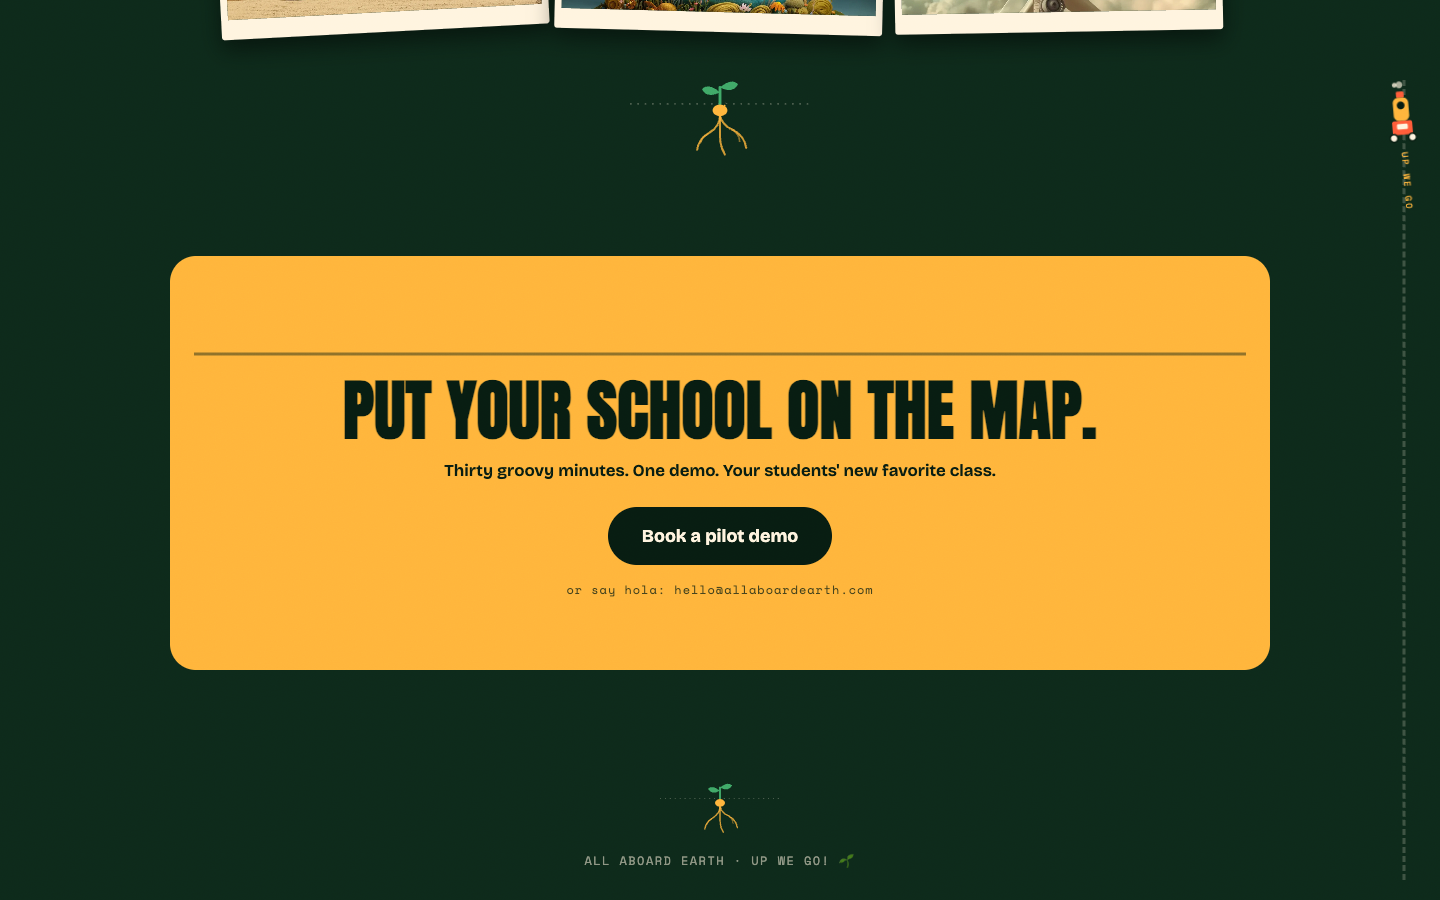
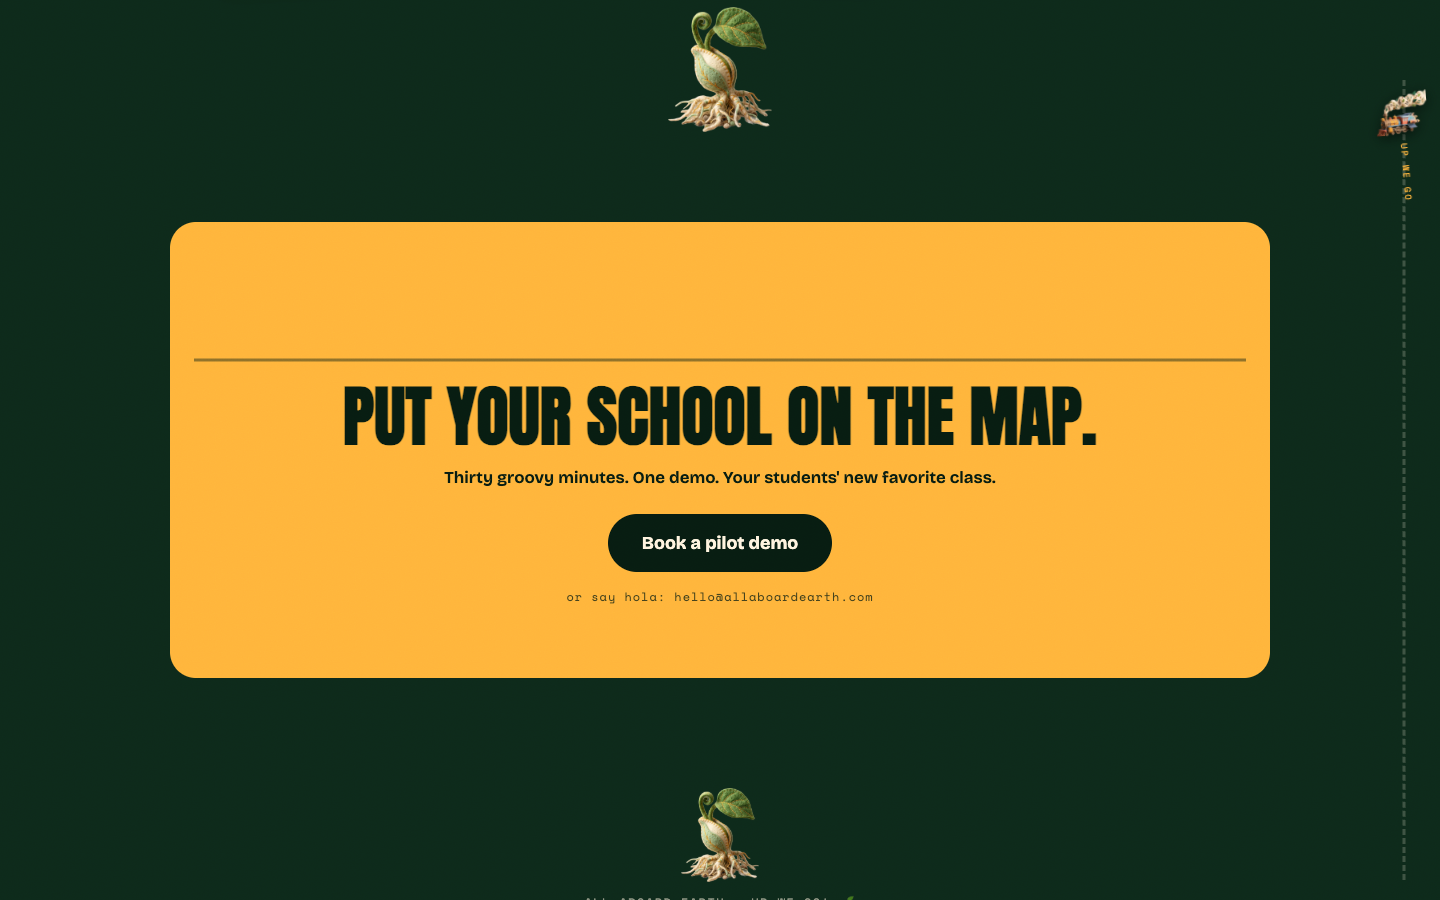
Replace every placeholder with the real AAE-web-art
All five named assets from the remaster brief were sitting in
~/Desktop/AAE-web-art, and they map one-to-one onto the seats:

- vinyl-sun     -> hero record, masked to a circle so the 45s spin reads
                   cleanly; the marigold SVG rays stay behind it so the
                   hero keeps its colour burst
- divider a / b -> the two 5856x704 wave-to-mountain paintings, now
                   full-bleed. B is drawn mirrored, so the scaleX flip is
                   gone, and the stroke draw-on becomes a pine curtain
                   that slides off on transform (clip-path would have
                   left the compositor)
- seed-mark     -> section ends and the footer sign-off
- climbing-train-> the scroll rail and the CTA crossing, flipped there to
                   face its direction of travel

Three were JPEGs with a checkerboard painted into the pixels rather than
real alpha. Adobe image_remove_background cut them correctly; a local
colour key would have eaten the trains cream steam and the seeds pale
roots, which sit right on the checkers own greys.

Adds a hero scrim: the record art is light tan, so cream copy over it
lost contrast that the old coral disc had given for free. The scrim sits
between art and type and restores it without touching the art.

The hero record is served from /art on a stable path and preloaded - a
bundler-hashed import is only discoverable after React mounts.
[…]

diff --git a/src/AllAboardEarthPrototype.jsx b/src/AllAboardEarthPrototype.jsx
@@ -5,6 +5,10 @@ import sceneGreenCareers from "./assets/scenes/green-careers.webp";
 import sceneEarthRests from "./assets/scenes/earth-rests.webp";
 import sceneRaccoon from "./assets/scenes/felt-raccoon.webp";
 import sceneWindMonkey from "./assets/scenes/felt-wind-monkey.webp";
+import dividerA from "./assets/marks/divider-wave-mountain-a.webp";
+import dividerB from "./assets/marks/divider-wave-mountain-b.webp";
+import climbingTrainArt from "./assets/marks/climbing-train.webp";
+import seedMarkArt from "./assets/marks/seed-mark.webp";
 
 // Card art is language-independent, so it lives outside the copy object and is
 // matched to cards by position. Art streams from the Wix CMS, so replacing the
@@ -253,38 +257,28 @@ function useReveal(lang) {
 function VinylSun() {
   return (
     <div className="vinyl-wrap" aria-hidden="true">
-    <svg className="vinyl-sun" viewBox="0 0 400 400">
-      <defs>
-        <radialGradient id="sunGrad" cx="50%" cy="40%">
-          <stop offset="0%" stopColor={T.marigold} />
-          <stop offset="75%" stopColor={T.coral} />
-        </radialGradient>
-      </defs>
-      {/* rotating rays */}
-      <g className="sun-rays">
-        {Array.from({ length: 16 }).map((_, i) => (
-          <rect
-            key={i}
-            x="196" y="8" width="8" height="34" rx="4"
-            fill={T.marigold}
-            transform={`rotate(${i * 22.5} 200 200)`}
-          />
-        ))}
-      </g>
-      {/* the record — turns as one piece, label and all */}
-      <g className="vinyl-disc">
-        <circle cx="200" cy="200" r="148" fill="url(#sunGrad)" />
-        {/* vinyl grooves */}
-        {[132, 116, 100, 84, 68].map((r) => (
-          <circle key={r} cx="200" cy="200" r={r} fill="none" stroke={T.pineDeep} strokeOpacity=".28" strokeWidth="2.5" />
-        ))}
-        {/* record label */}
-        <circle cx="200" cy="200" r="46" fill={T.cream} />
-        <circle cx="200" cy="200" r="6" fill={T.pineDeep} />
-        <text x="200" y="182" textAnchor="middle" fontFamily="'Space Mono', monospace" fontSize="12" fontWeight="700" fill={T.pineDeep} letterSpacing="1">SIDE A</text>
-        <text x="200" y="234" textAnchor="middle" fontFamily="'Space Mono', monospace" fontSize="10" fill={T.pineDeep} letterSpacing="1">33⅓ RPM</text>
-      </g>
-    </svg>
+      <svg className="vinyl-sun" viewBox="0 0 400 400">
+        <g className="sun-rays">
+          {Array.from({ length: 16 }).map((_, i) => (
+            <rect
+              key={i}
+              x="196" y="8" width="8" height="34" rx="4"
+              fill={T.marigold}
+              transform={`rotate(${i * 22.5} 200 200)`}
+            />
+          ))}
+        </g>
+      </svg>
+      {/* the record itself — real art, turning as one piece */}
+      <img
+        className="vinyl-disc"
+        src="/art/vinyl-sun.webp"
+        alt=""
+        width="640"
+        height="640"
+        fetchPriority="high"
+        decoding="async"
+      />
     </div>
   );
 }
@@ -294,16 +288,20 @@ function VinylSun() {
    the signal starts as water and rises into peaks
    ============================================================ */
 function WaveMountainDivider({ flip }) {
-  const wavePath =
-    "M0,84 q18,-16 36,0 t36,0 t36,0 t36,0 t36,0 t36,0 " + // water grooves
-    "L252,84 L310,46 L358,84 L430,22 L500,90 L570,14 L650,92 L724,34 L800,84 " + // rising peaks
-    "q18,-16 36,0 t36,0 t36,0 t36,0 t36,0 t36,0 t36,0 t36,0 t36,0 t36,0"; // signal rides on
   return (
     <div className={"divider" + (flip ? " flip" : "")} data-reveal aria-hidden="true">
-      <svg viewBox="0 0 1200 110" preserveAspectRatio="none" className="wobble">
-        <path className="draw-on" d={wavePath} fill="none" stroke={T.sky} strokeWidth="3" strokeLinecap="round" />
-        <path className="draw-on draw-on-b" d={wavePath} fill="none" stroke={T.marigold} strokeWidth="3" strokeLinecap="round" transform="translate(0,12)" opacity=".55" />
-      </svg>
+      <img
+        className="divider-img"
+        src={flip ? dividerB : dividerA}
+        alt=""
+        loading="lazy"
+        decoding="async"
+        width="1600"
+        height="192"
+      />
+      {/* wipe: a pine curtain slides off to the right — transform-only, so the
+          reveal stays on the compositor (clip-path would not) */}
+      <span className="divider-wipe" />
     </div>
   );
 }
@@ -326,22 +324,16 @@ function SeedGlyph({ className = "", hue }) {
    ============================================================ */
 function RootsMark() {
   return (
-    <svg className="roots wobble seed-grow" viewBox="0 0 220 110" aria-hidden="true" data-reveal>
-      {/* ground line */}
-      <line x1="0" y1="34" x2="220" y2="34" stroke={T.cream} strokeOpacity=".25" strokeWidth="2" strokeDasharray="2 7" />
-      {/* sprout */}
-      <path d="M110,34 L110,14" stroke={T.leaf} strokeWidth="3.5" strokeLinecap="round" fill="none" />
-      <path d="M110,20 q-14,-12 -22,-4 q6,12 22,4" fill={T.leaf} />
-      <path d="M110,14 q14,-12 22,-4 q-6,12 -22,4" fill={T.leaf} />
-      {/* seed */}
-      <ellipse cx="110" cy="42" rx="9" ry="7" fill={T.marigold} />
-      {/* roots branching down */}
-      <path d="M110,48 q0,14 -14,22 q-12,7 -14,20" stroke={T.marigold} strokeOpacity=".8" strokeWidth="2.5" fill="none" strokeLinecap="round" />
-      <path d="M110,48 q0,16 0,26 q0,12 6,22" stroke={T.marigold} strokeOpacity=".8" strokeWidth="2.5" fill="none" strokeLinecap="round" />
-      <path d="M110,48 q2,12 16,18 q14,7 16,22" stroke={T.marigold} strokeOpacity=".8" strokeWidth="2.5" fill="none" strokeLinecap="round" />
-      <path d="M96,70 q-8,4 -10,12" stroke={T.marigold} strokeOpacity=".5" strokeWidth="2" fill="none" strokeLinecap="round" />
-      <path d="M126,66 q8,6 8,14" stroke={T.marigold} strokeOpacity=".5" strokeWidth="2" fill="none" strokeLinecap="round" />
-    </svg>
+    <img
+      className="roots seed-grow"
+      src={seedMarkArt}
+      alt=""
+      width="520"
+      height="624"
+      loading="lazy"
+      decoding="async"
+      data-reveal
+    />
   );
 }
 
@@ -395,23 +387,7 @@ function ClimbingTrain() {
         className={"rail-train" + (settling ? " settling" : "")}
         style={{ "--y": `${travel * (1 - p)}px`, "--climb": `${(-6 - p * 6).toFixed(1)}deg` }}
       >
-        <svg viewBox="0 0 44 84" width="34" height="66">
-          {/* steam puffs */}
-          <circle className="puff p1" cx="22" cy="10" r="4" fill={T.cream} opacity=".8" />
-          <circle className="puff p2" cx="16" cy="6" r="3" fill={T.cream} opacity=".55" />
-          <circle className="puff p3" cx="28" cy="4" r="2.5" fill={T.cream} opacity=".4" />
-          {/* chimney (pointing up — we climb!) */}
-          <rect x="17" y="14" width="10" height="8" rx="2" fill={T.coral} />
-          {/* boiler */}
-          <rect x="12" y="22" width="20" height="30" rx="7" fill={T.marigold} />
-          <circle cx="22" cy="32" r="5" fill={T.pineDeep} />
-          {/* cab */}
-          <rect x="9" y="52" width="26" height="18" rx="3" fill={T.coral} />
-          <rect x="15" y="56" width="14" height="7" rx="2" fill={T.cream} />
-          {/* wheels */}
-          <circle cx="10" cy="74" r="5" fill={T.cream} stroke={T.pineDeep} strokeWidth="2" />
-          <circle cx="34" cy="74" r="5" fill={T.cream} stroke={T.pineDeep} strokeWidth="2" />
-        </svg>
+        <img className="rail-train-img" src={climbingTrainArt} alt="" width="760" height="672" loading="lazy" decoding="async" />
         <span className="rail-label mono">UP WE GO</span>
       </div>
     </div>
@@ -541,6 +517,7 @@ export default function App() {
 
         /* Seat 4/11 — the seed mark grows rather than fades */
         .seed-grow{ transform-origin:50% 30%; }
+        [data-reveal].divider{ opacity:1; transform:none; }
         [data-reveal].seed-grow{ transform:translateY(24px) scale(.72); }
         [data-reveal].seed-grow.in{ transform:translateY(0) scale(1); }
         .mono { font-family:'Space Mono', monospace; font-size:12px; letter-spacing:.08em; line-height:1.5; }
@@ -561,10 +538,11 @@ export default function App() {
           .ccard-inner, .rail-train, .cta-train{ transition:none !important; animation:none !important; transform:none !important; }
           .cta-train{ left:auto !important; right:0 !important; }
           .draw-on{ stroke-dasharray:none !important; stroke-dashoffset:0 !important; transition:none !important; }
+          .divider-wipe{ transform:translateX(101%) !important; transition:none !important; }
           .seed-grow{ opacity:1 !important; transform:none !important; }
           .photoprint, .poster, .panel{ animation:none !important; }
           .cta-train{ animation:none !important; transform:translateX(0) !important; left:auto !important; right:8px !important; }
-          .cta-train-rock{ animation:none !important; }
+          .cta-train-img{ animation:none !important; }
           /* the record and the pulsing badges stop too */
           .vinyl-disc{ animation:none !important; }
           .boarding-badge, .signal{ animation:none !important; opacity:1 !important; }
@@ -589,14 +567,23 @@ export default function App() {
 
         /* hero + vinyl sun */
         .hero{ position:relative; padding:clamp(40px,8vh,90px) clamp(16px,4vw,48px) 0; text-align:center; }
+        /* The record art is light tan, so cream copy laid over it loses contrast.
+           A soft pine scrim sits between the art (z 0) and the type (z 2). */
+        .hero::after{
+          content:""; position:absolute; left:50%; top:38%; width:min(92vw,900px); height:62%;
+          transform:translateX(-50%); z-index:1; pointer-events:none;
+          background:radial-gradient(ellipse at 50% 45%, ${T.pine}e6 0%, ${T.pine}c4 42%, ${T.pine}00 72%);
+        }
         /* wrapper owns position + entrance; svg owns parallax. Both transform-only. */
-        .vinyl-wrap{ position:absolute; left:50%; top:56%; width:min(74vw,580px);
+        .vinyl-wrap{ position:absolute; aspect-ratio:1; left:50%; top:56%; width:min(74vw,580px);
           z-index:0; transform:translateX(-50%); animation:rise 1.6s var(--ease-settle) both; will-change:transform; }
-        .vinyl-sun{ display:block; width:100%;
+        .vinyl-sun{ display:block; width:100%; position:absolute; inset:0;
           transform:translate3d(0, var(--sun-shift, 0px), 0); will-change:transform; }
+        .vinyl-disc{ position:relative; display:block; width:86%; margin:7% auto;
+          transform:translate3d(0, var(--sun-shift, 0px), 0) rotate(0deg); will-change:transform; }
         @keyframes rise{ from{ transform:translateX(-50%) translateY(70vh); opacity:0; } to{ transform:translateX(-50%) translateY(0); opacity:1; } }
         /* the whole record turns, 45s/rev; hover spins it up like a turntable */
-        .vinyl-disc{ transform-origin:200px 200px; animation:spin 45s linear infinite; transition:none; }
+        .vinyl-disc{ animation:spin 45s linear infinite; }
         .hero:hover .vinyl-disc{ animation-duration:22s; }
         .sun-rays{ transform-origin:200px 200px; animation:spin 60s linear infinite; }
         @keyframes spin{ to{ transform:rotate(360deg); } }
@@ -621,12 +608,16 @@ export default function App() {
         @keyframes slide{ from{ transform:translateX(0); } to{ transform:translateX(-50%); } }
 
         /* wave→mountain dividers */
-        .divider{ max-width:1100px; margin:0 auto; padding:0 clamp(16px,4vw,48px); }
-        .divider svg{ width:100%; height:64px; display:block; }
-        .divider.flip svg{ transform:scaleX(-1); }
+        .divider{ position:relative; width:100%; margin:0 auto; overflow:hidden; line-height:0; }
+        .divider-img{ width:100%; height:clamp(84px,11vw,150px); object-fit:cover; display:block; }
+        .divider-wipe{
+          position:absolute; inset:0; background:${T.pine}; pointer-events:none;
+          transform:translateX(0); transition:transform 1.4s var(--ease-settle); will-change:transform;
+        }
+        [data-reveal].in .divider-wipe{ transform:translateX(101%); }
 
         /* roots mark */
-        .roots{ display:block; width:180px; margin:44px auto 0; }
+        .roots{ display:block; width:104px; height:auto; margin:40px auto 0; }
 
         /* climbing train rail */
         .rail{ position:fixed; right:14px; top:80px; bottom:20px; width:44px; z-index:40; pointer-events:none; }
@@ -635,6 +626,7 @@ export default function App() {
           transform:translateX(-50%) translateY(var(--y, 0px)) rotate(var(--climb, 0deg));
           transition:transform .3s var(--ease-settle); will-change:transform; }
         .rail-train.settling{ transform:translateX(-50%) translateY(var(--y, 0px)) rotate(calc(var(--climb, 0deg) * .4)); }
+        .rail-train-img{ width:52px; height:auto; display:block; filter:drop-shadow(0 3px 6px #0008); }
         .rail-label{ writing-mode:vertical-rl; font-size:9px; color:${T.marigold}; margin-top:6px; letter-spacing:.2em; }
         .puff{ animation:puff 2.2s ease-in-out infinite; transform-origin:center; }
         .puff.p2{ animation-delay:.4s; } .puff.p3{ animation-delay:.9s; }
@@ -772,14 +764,14 @@ export default function App() {
         .collage img:nth-child(3){ transform:rotate(-1deg); }
 
         /* Seat 9 — the train crosses the CTA band once, on first reveal */
-        .crossing{ position:relative; height:34px; margin:0 0 18px; overflow:hidden; }
+        .crossing{ position:relative; height:74px; margin:0 0 18px; overflow:hidden; }
         .crossing-track{ position:absolute; left:0; right:0; bottom:6px; width:100%; height:4px; }
-        .cta-train{ position:absolute; bottom:8px; left:0; font-size:26px; line-height:1; will-change:transform; transform:translateX(-20vw); }
-        .cta-train-rock{ display:inline-block; will-change:transform; }
+        .cta-train{ position:absolute; bottom:6px; left:0; line-height:0; will-change:transform; transform:translateX(-20vw); }
+        .cta-train-img{ display:block; width:78px; height:auto; transform:scaleX(-1); will-change:transform; }
         [data-reveal].ctaband.in .cta-train{ animation:cross 7s var(--ease-drift) both; }
-        [data-reveal].ctaband.in .cta-train-rock{ animation:rock 1.1s ease-in-out infinite; }
+        [data-reveal].ctaband.in .cta-train-img{ animation:rock 1.1s ease-in-out infinite; }
         @keyframes cross{ from{ transform:translateX(-20vw); } to{ transform:translateX(120vw); } }
-        @keyframes rock{ 0%,100%{ transform:rotate(-1.5deg); } 50%{ transform:rotate(1.5deg); } }
+        @keyframes rock{ 0%,100%{ transform:scaleX(-1) rotate(-1.5deg); } 50%{ transform:scaleX(-1) rotate(1.5deg); } }
 
 
         /* proof */
@@ -795,7 +787,7 @@ export default function App() {
         .ctaband .mono{ display:block; margin-top:16px; opacity:.75; }
         .ctaband .btn{ background:${T.pineDeep}; color:${T.cream}; }
 
-        footer .roots{ width:120px; margin:0 auto 10px; }
+        footer .roots{ width:78px; margin:0 auto 10px; }
         .footer-give{ margin-top:10px; }
         .footer-social{ margin-top:6px; }
         footer a{ color:${T.marigold}; text-decoration:none; border-bottom:1px solid ${T.marigold}66; }
@@ -957,7 +949,7 @@ export default function App() {
             <svg className="crossing-track" viewBox="0 0 1200 4" preserveAspectRatio="none">
               <line className="draw-on" x1="0" y1="2" x2="1200" y2="2" stroke={T.pineDeep} strokeOpacity=".45" strokeWidth="3" strokeDasharray="10 12" />
             </svg>
-            <span className="cta-train"><span className="cta-train-rock">🚂</span></span>
+            <span className="cta-train"><img className="cta-train-img" src={climbingTrainArt} alt="" width="760" height="672" loading="lazy" decoding="async" /></span>
           </div>
           <h2 className="display">{c.cta_head}</h2>
           <p>{c.cta_sub}</p>

diff --git a/index.html b/index.html
@@ -11,6 +11,10 @@
     <!-- Fonts are self-hosted: Google Fonts cost a DNS + connect + CSS round
          trip before the font file is even requested, and the hero headline
          (Anton) is the LCP element, so that chain set the LCP floor. -->
+    <!-- The hero record is the largest above-the-fold element. Served from
+         /art (stable path, no bundler hash) so it can be preloaded here rather
+         than discovered only once React has rendered. -->
+    <link rel="preload" href="/art/vinyl-sun.webp" as="image" fetchpriority="high" />
     <link rel="preload" href="/fonts/anton-latin.woff2" as="font" type="font/woff2" crossorigin />
     <link rel="preload" href="/fonts/bricolage-latin.woff2" as="font" type="font/woff2" crossorigin />
     <style>

diff --git a/MISSING_ART.md b/MISSING_ART.md
@@ -9,16 +9,24 @@ Last checked: 2026-09-11 (verified against production).
 
 ## Still on placeholders
 
-| Asset | Seat | Placeholder in use | Animation already wired |
-|---|---|---|---|
-| `vinyl-sun.png` | 1 — hero | `<VinylSun />` coded SVG (rays + grooved record + SIDE A label) | 45s/rev spin, spins up to 22s on hover, 0.15x scroll parallax capped ±40px |
-| `divider-wave-mountain-a.png` | 3 — dividers | `<WaveMountainDivider />` coded SVG | `stroke-dashoffset` draw-on over 1.4s, static wobble filter |
-| `divider-wave-mountain-b.png` | 3 — dividers | same component with `flip` (mirrored via `scaleX(-1)`) | same |
-| `seed-mark.png` | 2, 4, 11 | `<SeedGlyph />` / `<RootsMark />` coded SVG | marquee separator; per-cell tinted icons that scale 0.6→1; footer sign-off grow-in |
-| `climbing-train.png` | 9, 10 | rail: coded SVG loco. CTA crossing: 🚂 emoji | rail train rotates to climb angle + 120ms settle; CTA train crosses −20vw→120vw over 7s with ±1.5° rock |
+**None.** Every asset the brief named is now real art, sourced from
+`~/Desktop/AAE-web-art` on 2026-09-11.
 
-The CTA-band train (Seat 9) is the weakest placeholder — an emoji standing in for
-drawn art. It is the first one worth replacing.
+| Asset | Seat | What shipped |
+|---|---|---|
+| `vinyl-sun.png` | 1 — hero | Tree-ring record with a glowing sun label. Masked to a circle so the 45s spin reads cleanly, and served from `/art` (stable path) so it can be preloaded. |
+| `divider-wave-mountain-a` / `-b` | 3 — dividers | The two ultra-wide 5856x704 wave-to-mountain paintings, full-bleed, alternating. B is drawn mirrored, so the old `scaleX(-1)` flip was removed. |
+| `seed-mark.png` | 4, 11 | Felt sprout with roots, at section ends and as the footer sign-off. |
+| `climbing-train.png` | 9, 10 | Felt solar train with musical-note steam — on the scroll rail, and crossing the CTA band (flipped to face its direction of travel). |
+
+Three of these were JPEGs with a **checkerboard painted into the pixels** — fake
+transparency, not real alpha. Adobe's `image_remove_background` cut them properly;
+local colour-keying would have eaten the train's cream steam and the seed's pale
+roots, since both collide with the checker's own greys.
+
+The coded SVG placeholders were deleted with them, except the small `SeedGlyph`,
+which still draws the 22px marquee separator — the detailed seed art turns to mush
+at that size.
 
 ## Resolved — no longer missing
 
